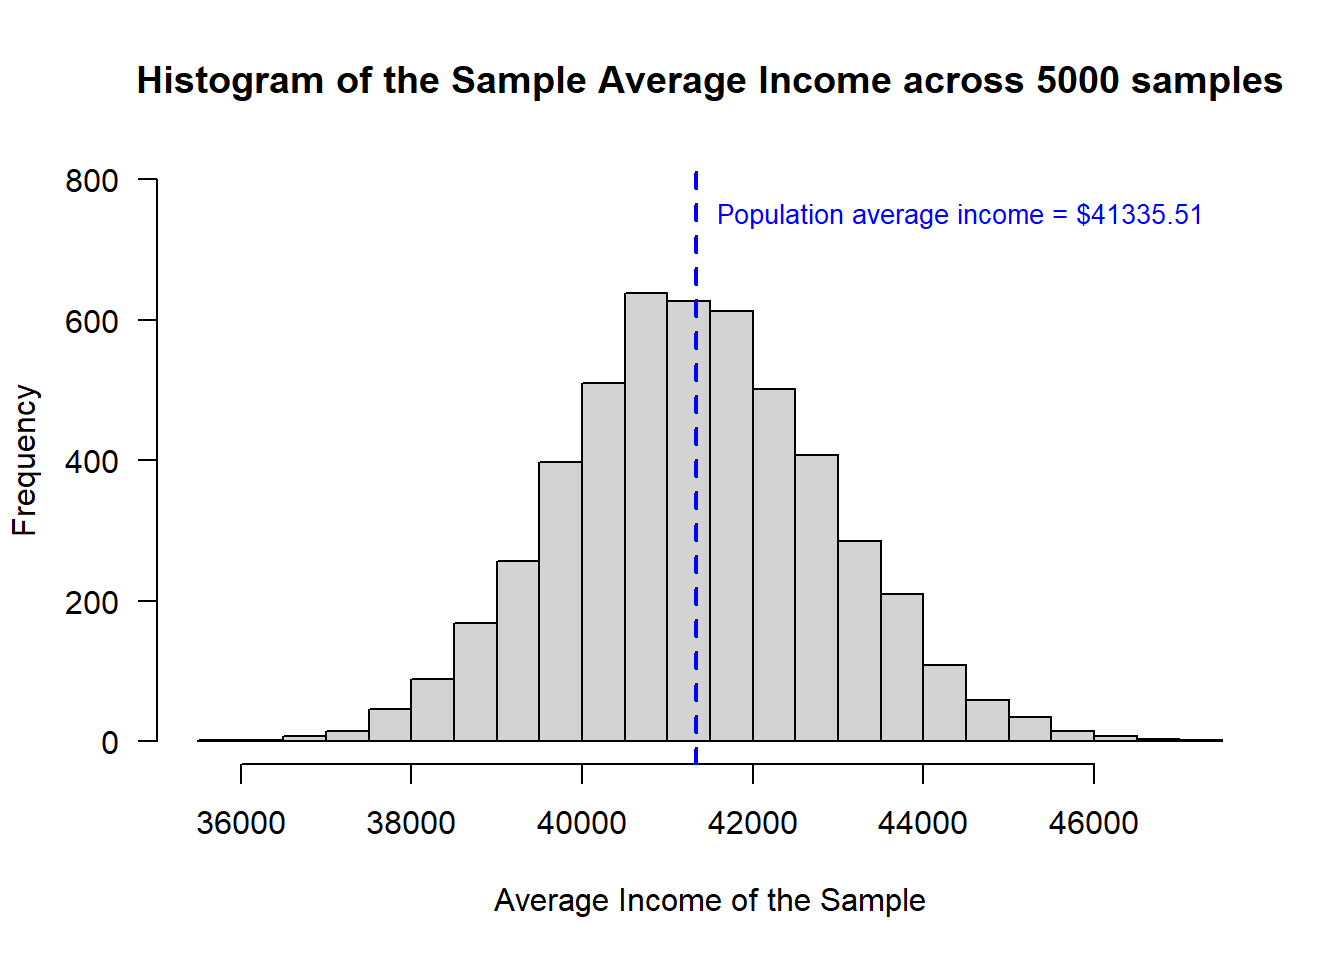
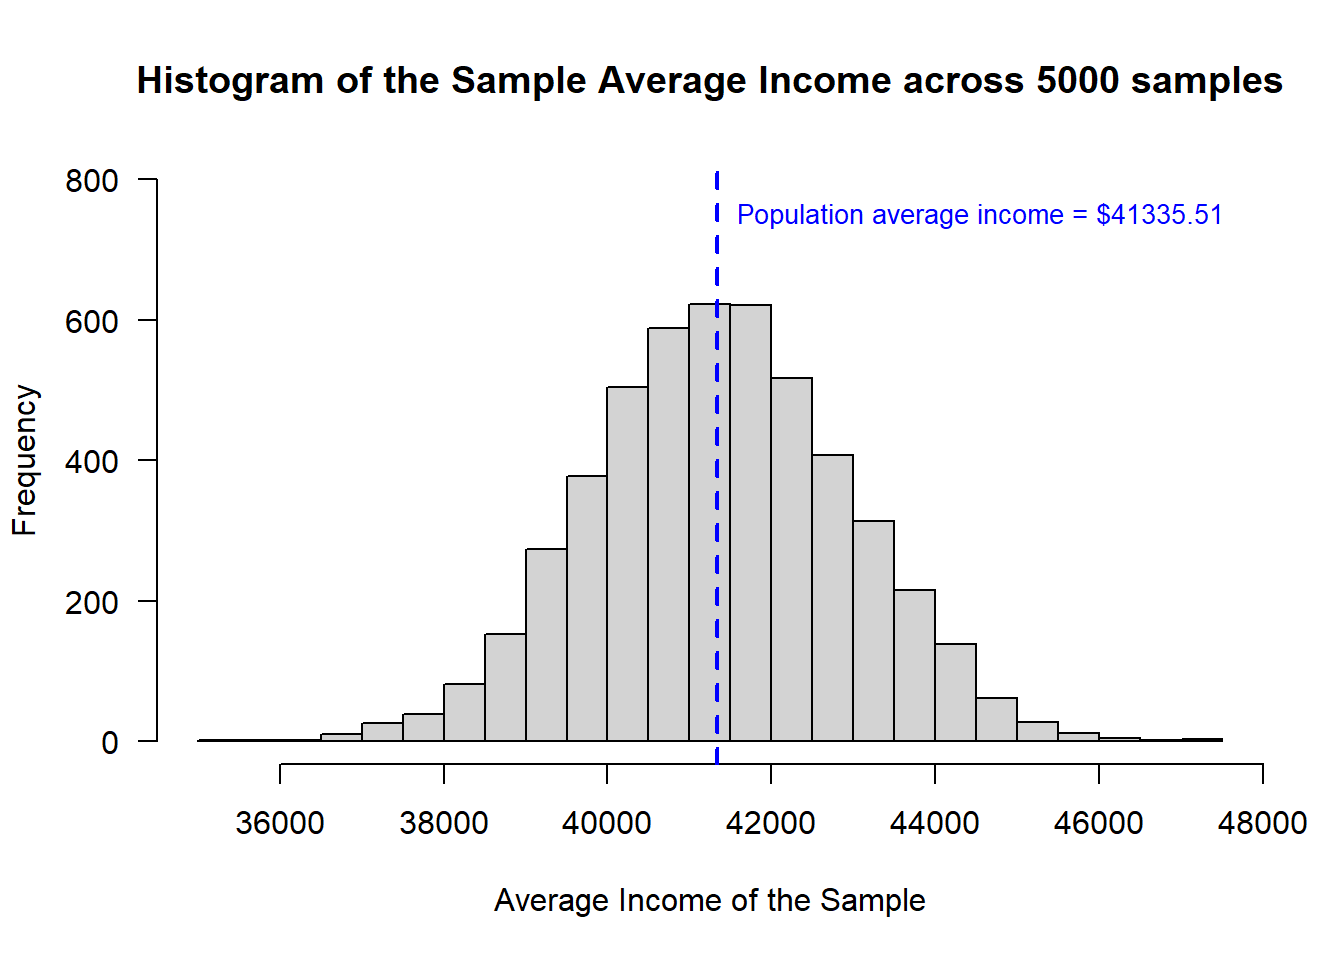
update website

diff --git a/03b-CLT.html b/03b-CLT.html
@@ -465,11 +465,11 @@ deviation of the sample.</p>
 <pre class="r"><code># Calculate the sample mean of Income
 sample.avg &lt;- mean(study.data$INCOME)
 sample.avg</code></pre>
-<pre><code>&gt; [1] 42620.44</code></pre>
+<pre><code>&gt; [1] 40152.59</code></pre>
 <pre class="r"><code># Calculate the sample sd of Income
 sample.sd &lt;- sd(study.data$INCOME)
 sample.sd</code></pre>
-<pre><code>&gt; [1] 31376.67</code></pre>
+<pre><code>&gt; [1] 36834.91</code></pre>
 <p>If you run the last two sections of code repeatedly, you will find
 that each time a new sample is selected the sample mean is a different
 number.</p>
@@ -596,8 +596,8 @@ lowerCI = sample.avg + qnorm(0.025, mean = 0, sd = 1) * se
 upperCI = sample.avg + qnorm(0.975, mean = 0, sd = 1) * se
 
 print(cbind(sample.avg, lowerCI, upperCI))</code></pre>
-<pre><code>&gt;      sample.avg lowerCI  upperCI
-&gt; [1,]   41300.79 38347.2 44254.39</code></pre>
+<pre><code>&gt;      sample.avg  lowerCI  upperCI
+&gt; [1,]    42597.5 39473.75 45721.25</code></pre>
 <hr />
 </div>
 <div id="interpreting-confidence-intervals" class="section level2">
@@ -624,7 +624,7 @@ sample.reps$outBounds[ true.avg &gt; sample.reps$upperCI ] &lt;- 1
 
 # what % of study replications reported 95% CI that did not include the true population average?
 sum(sample.reps$outBounds)/m</code></pre>
-<pre><code>&gt; [1] 0.0464</code></pre>
+<pre><code>&gt; [1] 0.0472</code></pre>
 <p>I hope it is not too much of a surprise that this is really close to
 5%!</p>
 <p>Next: Elements of a Statistical Test</p>

diff --git a/04a-Binomial-Test.html b/04a-Binomial-Test.html
@@ -371,7 +371,7 @@ if(runif(1) &lt;= p){1}else{0}</code></pre>
 p = 1/6
 n = 20
 as.integer(runif(n) &lt;= p)</code></pre>
-<pre><code>&gt;  [1] 0 0 0 1 0 1 0 1 0 0 0 0 0 0 1 0 0 1 0 0</code></pre>
+<pre><code>&gt;  [1] 0 0 1 0 0 1 0 0 0 1 0 0 0 0 0 0 0 0 0 1</code></pre>
 <hr />
 </div>
 </div>
@@ -430,9 +430,9 @@ trials when the probability of success is “prob”</p>
 n = 20
 p = 1/6
 rbinom(n = trials, size = n, prob = p)</code></pre>
-<pre><code>&gt;   [1] 3 3 3 1 2 3 0 2 5 3 4 6 6 4 3 3 4 4 2 4 5 2 3 2 4 4 4 3 2 4 3 3 4 6 5 2 7
-&gt;  [38] 3 5 3 4 2 5 3 0 1 2 3 6 5 2 4 4 5 1 2 3 2 1 2 2 1 4 6 1 1 2 3 7 5 2 3 4 3
-&gt;  [75] 1 4 7 3 3 5 6 4 6 4 3 3 3 7 4 6 3 4 6 0 2 4 5 1 4 3</code></pre>
+<pre><code>&gt;   [1] 5 3 3 2 1 2 4 6 2 3 6 2 2 2 2 1 3 1 2 4 4 7 4 5 2 3 4 7 4 3 6 4 1 2 2 1 1
+&gt;  [38] 4 3 2 1 2 6 1 3 5 3 6 3 5 3 4 4 5 5 5 5 3 3 3 3 2 4 3 4 4 1 6 5 2 2 5 7 4
+&gt;  [75] 2 4 4 5 4 3 1 2 4 1 4 4 2 1 4 0 2 3 6 6 2 5 0 0 3 3</code></pre>
 <hr />
 </div>
 </div>
